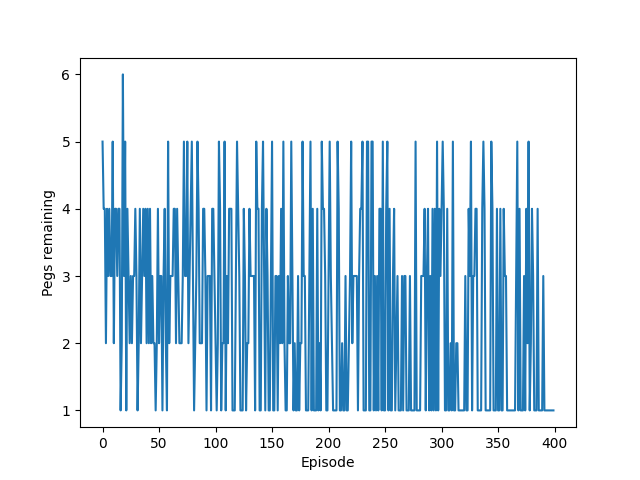
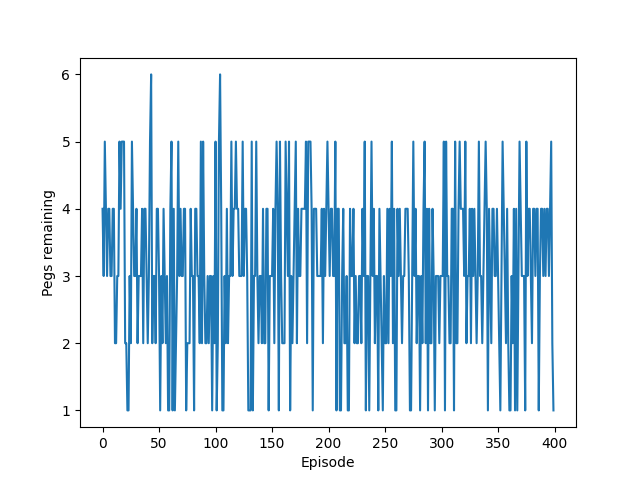
Improvements for triangle

Changed region(s): [[0.1562, 0.1562, 0.875, 0.875]]

diff --git a/project_1/main.py b/project_1/main.py
@@ -4,18 +4,147 @@ from pegSolitaireBoard import PegSolitaireBoard
 from simWorld import ShapeType
 from ReinforcementLearner import ReinforcementLearner
 from PegSolitairePlayer import PegSolitairePlayer
+import random
+import json
+from tqdm import tqdm
+hyperparams = []
 
+def param_brute():
+  for num in tqdm(range(0, 100), "Possible params checked"):
+    base_loss = random.uniform(0, 1)
+    peg_loss_mod = random.uniform(0, 1)
+    win = random.choice([1, 10, 100, 1000, 10000])
+    critic_discount = random.uniform(0.5, 1)
+    actor_discount = random.uniform(0.5, 1)
+    critic_eligibility = random.uniform(0.5, 1)
+    actor_eligibility = random.uniform(0.5, 1)
+    initial_epsilon = random.uniform(0.25, 1)
+
+    config = ConfigReader()
+    config.actor_eligibility_decay_rate = actor_eligibility
+    config.critic_eligibility_decay_rate = critic_eligibility
+    config.actor_discount_factor = actor_discount
+    config.critic_discount_factor = critic_discount
+    config.initial_epsilon = initial_epsilon
+    config.positive_reward_on_win = win
+    config.negative_reward_on_loss_base = base_loss
+    config.negative_reward_on_loss_per_peg = peg_loss_mod
+    best_score = run_tests(5, config)
+
+    best_score = sum(best_score)/len(best_score)
+    hyperparams.append([str((base_loss, peg_loss_mod, win, critic_discount, actor_discount, critic_eligibility, actor_eligibility, initial_epsilon)), best_score])
+    #print('Number of correct runs:', sum([1 for ele in learner.peg_log if ele == 1]))
+    #learner.display_game()
+
+  try:
+    with open('file.txt', 'a') as file:
+      hyperparams.sort(key=lambda x: x[1], reverse=True)
+      file.write(json.dumps(hyperparams))
+  except:
+    pass
+  finally:
+    print(hyperparams)
+
+def iter_round(config):
+  config_list = [
+    config.actor_eligibility_decay_rate,
+    config.critic_eligibility_decay_rate,
+    config.actor_discount_factor,
+    config.critic_discount_factor,
+    config.initial_epsilon,
+    config.negative_reward_on_loss_base,
+    config.negative_reward_on_loss_per_peg
+  ]
+  attribute_index = random.choice(range(0, len(config_list)))
+  attribute = config_list[attribute_index]
+  old_val = attribute + 1  # copy value
+  old_val -= 1
+  candidate_changes = [random.uniform(-0.1, 0.1) for x in range(0, 1)]
+  candidates = [attribute+candidate_changes[i] for i in range(0, 1)]
+  scores = []
+  for cand in candidates:
+    config_list[attribute_index] = cand
+    load_config(config, config_list)
+    avg_score = sum(run_tests(5, config))/5
+    scores.append([avg_score, cand])
+  scores.sort(key=lambda x: x[0])
+  config_list[attribute_index] = scores[0][1]
+  load_config(config, config_list)
+  return scores[0][0]
+
+def load_config(config, vals):
+  config.actor_eligibility_decay_rate = vals[0]
+  config.critic_eligibility_decay_rate = vals[1]
+  config.actor_discount_factor = vals[2]
+  config.critic_discount_factor = vals[3]
+  config.initial_epsilon = vals[4]
+  config.negative_reward_on_loss_base = vals[5]
+  config.negative_reward_on_loss_per_peg = vals[6]
+
+def iter_search(rounds, params):
+  base_loss = params[5]
+  peg_loss_mod = params[6]
+  win = 1000
+  critic_discount =params[3]
+  actor_discount =  params[2]
+  critic_eligibility = params[1]
+  actor_eligibility = params[0]
+  initial_epsilon = params[4]
+
+  config = ConfigReader()
+  config.actor_eligibility_decay_rate = actor_eligibility
+  config.critic_eligibility_decay_rate = critic_eligibility
+  config.actor_discount_factor = actor_discount
+  config.critic_discount_factor = critic_discount
+  config.initial_epsilon = initial_epsilon
+  config.positive_reward_on_win = win
+  config.negative_reward_on_loss_base = base_loss
+  config.negative_reward_on_loss_per_peg = peg_loss_mod
+  results = []
+  for r in tqdm(range(0, rounds), "progress"):
+    result = iter_round(config)
+    result_str = str(config.actor_eligibility_decay_rate) + ", " + \
+                   str(config.critic_eligibility_decay_rate) + ", " + \
+                   str(config.actor_discount_factor) + ", " + \
+                   str(config.critic_discount_factor) + ", " + \
+                   str(config.initial_epsilon) + ", " + \
+                   str(config.positive_reward_on_win) + ", " + \
+                   str(config.negative_reward_on_loss_base) + ", " + \
+                   str(config.negative_reward_on_loss_per_peg) + " | " + \
+                    str(result) + "\n"
+    results.append(result_str)
+  with open('file2.txt', 'a') as file:
+    for res in results:
+      file.write(res)
+
+
+
+
+
+
+
+def run_tests(count, config):
+  best_score = []
+  for num2 in range(0, count):
+    player = PegSolitairePlayer(config.empty_cells, config.board_type, config.size, config.image_size,
+                                config.frame_delay, config.positive_reward_on_win, config.negative_reward_on_loss_base, config.negative_reward_on_loss_per_peg)
+    learner = ReinforcementLearner(player, config)
+
+    learner.fit()
+    corrects = sum([1 for ele in learner.peg_log if ele == 1])
+    best_score.append(corrects)
+  return best_score
+
+#p = (0.8972402459603667, 0.8931089114734135, 0.9409684975677948, 0.602227525679401, 0.30862613139410333, 0.27798283333040524, 0.4762362992036559)
+#iter_search(10, p)
 config = ConfigReader()
 
-player = PegSolitairePlayer(config.empty_cells, config.board_type, config.size, config.image_size, config.frame_delay)
+player = PegSolitairePlayer(config.empty_cells, config.board_type, config.size, config.image_size, config.frame_delay, config.positive_reward_on_win, config.negative_reward_on_loss_base, config.negative_reward_on_loss_per_peg)
 learner = ReinforcementLearner(player, config)
 
 learner.fit()
 print('Number of correct runs:', sum([1 for ele in learner.peg_log if ele == 1]))
 learner.display_game()
-
-
-
 
 '''
 # board = PegSolitaireBoard(config.empty_cells, config.board_type, config.size)

diff --git a/project_1/ConfigReader.py b/project_1/ConfigReader.py
@@ -23,16 +23,20 @@ class ConfigReader():
     self.actor_learning_rate = 0.1
     self.critic_learning_rate = 0.1
 
-    self.actor_eligibility_decay_rate = 0.5
-    self.critic_eligibility_decay_rate = 0.5
+    self.actor_eligibility_decay_rate = 0.8972402459603667
+    self.critic_eligibility_decay_rate = 0.8931089114734135
 
-    self.actor_discount_factor = 0.9
-    self.critic_discount_factor = 0.9
+    self.actor_discount_factor = 0.9409684975677948
+    self.critic_discount_factor = 0.602227525679401
 
-    self.initial_epsilon = 0.9
+    self.initial_epsilon = 0.30862613139410333
     
     self.frame_delay = 1000
     self.image_size = 1000
+
+    self.positive_reward_on_win = 1000
+    self.negative_reward_on_loss_base = 0.27798283333040524
+    self.negative_reward_on_loss_per_peg = 0.4762362992036559
 
     self.read_config()
 
@@ -65,15 +69,15 @@ class ConfigReader():
     Reads the config.txt file and saves the values in the corresponding variables
     """
     # Ask the use which config file to use
-    config_files = [f for f in os.listdir(CURRENT_DIR) if f.startswith("config") and f.endswith(".txt")]
-    print('Which config file do you want to use?:')
-    for i in range(len(config_files)):
-      print('(' + str(i) + '): ' + config_files[i])
-    file_index = input('(0-'+str(len(config_files)-1)+'): ')
-    while not file_index.isdigit() or int(file_index) < 0 or int(file_index) > (len(config_files)-1):
-      file_index = input('(0-'+str(len(config_files)-1)+'): ')
+    #config_files = [f for f in os.listdir(CURRENT_DIR) if f.startswith("config") and f.endswith(".txt")]
+    #print('Which config file do you want to use?:')
+    #for i in range(len(config_files)):
+    #  print('(' + str(i) + '): ' + config_files[i])
+    #file_index = input('(0-'+str(len(config_files)-1)+'): ')
+    #while not file_index.isdigit() or int(file_index) < 0 or int(file_index) > (len(config_files)-1):
+    #  file_index = input('(0-'+str(len(config_files)-1)+'): ')
     
-    file_name = config_files[int(file_index)]
+    file_name = "config_triangle_table.txt"
 
     f = open(os.path.join(CURRENT_DIR, file_name))
     for line in f:

diff --git a/project_1/PegSolitairePlayer.py b/project_1/PegSolitairePlayer.py
@@ -9,7 +9,7 @@ class PegSolitairePlayer(SimWorldPlayer):
   """
   Bridge between the sim-world and the reinforcement agent
   """
-  def __init__(self, board_empty_positions, board_shape, board_size, image_size, frame_delay):
+  def __init__(self, board_empty_positions, board_shape, board_size, image_size, frame_delay, win_reward, base_loss_reward, loss_reward_peg):
     # Saves board params for re-initialization
     self.board_empty_positions = board_empty_positions
     self.board_shape = board_shape
@@ -19,6 +19,9 @@ class PegSolitairePlayer(SimWorldPlayer):
     self.display = False
     self.image_size = image_size
     self.frame_delay = frame_delay
+    self.win_reward = win_reward
+    self.base_loss_reward = base_loss_reward
+    self.loss_reward_peg = loss_reward_peg
 
   def reset_state(self):
     # Re-initialize board
@@ -72,10 +75,10 @@ class PegSolitairePlayer(SimWorldPlayer):
   
   def get_reward(self):
     if self.game.get_game_over() and self.game.get_win():
-      return 1
-    #remaining_peg_heuristic = (float(self.board_size)*float(self.board_size)-float(self.get_remaining_pegs()))/(float(self.board_size)*float(self.board_size))
-    #available_moves_heuristic = len(self.game.get_all_moves())/self.get_remaining_pegs()
-    return 0
+      return self.win_reward
+    remaining_peg_heuristic = (float(self.board_size)*float(self.board_size)-float(self.get_remaining_pegs()))/(float(self.board_size)*float(self.board_size))
+    available_moves_heuristic = len(self.game.get_all_moves())/self.get_remaining_pegs()
+    return  -self.base_loss_reward -self.get_remaining_pegs()*self.loss_reward_peg
     # #if self.game.get_game_over() and self.game.get_win():
     # #  return 1 
     #return 0

diff --git a/project_1/ReinforcementLearner.py b/project_1/ReinforcementLearner.py
@@ -30,7 +30,8 @@ class ReinforcementLearner():
     
   def fit(self):
     # Run all episodes
-    for episode in tqdm(range(self.config.number_of_episodes), desc="Episodes"):
+    #for episode in tqdm(range(self.config.number_of_episodes), desc="Episodes"):
+    for episode in range(self.config.number_of_episodes):
       self.run_episode()
       if self.sim_world_player.get_reward() == 1.0:
         self.actor.epsilon_decay()
@@ -45,7 +46,7 @@ class ReinforcementLearner():
       # Linear
       # self.actor.epsilon = 1 - (episode/self.config.number_of_episodes)
     
-    self.display_log()
+    #self.display_log()
     
   def run_episode(self):
     # Based on 3.1 generic Actor-Critic algorithm
